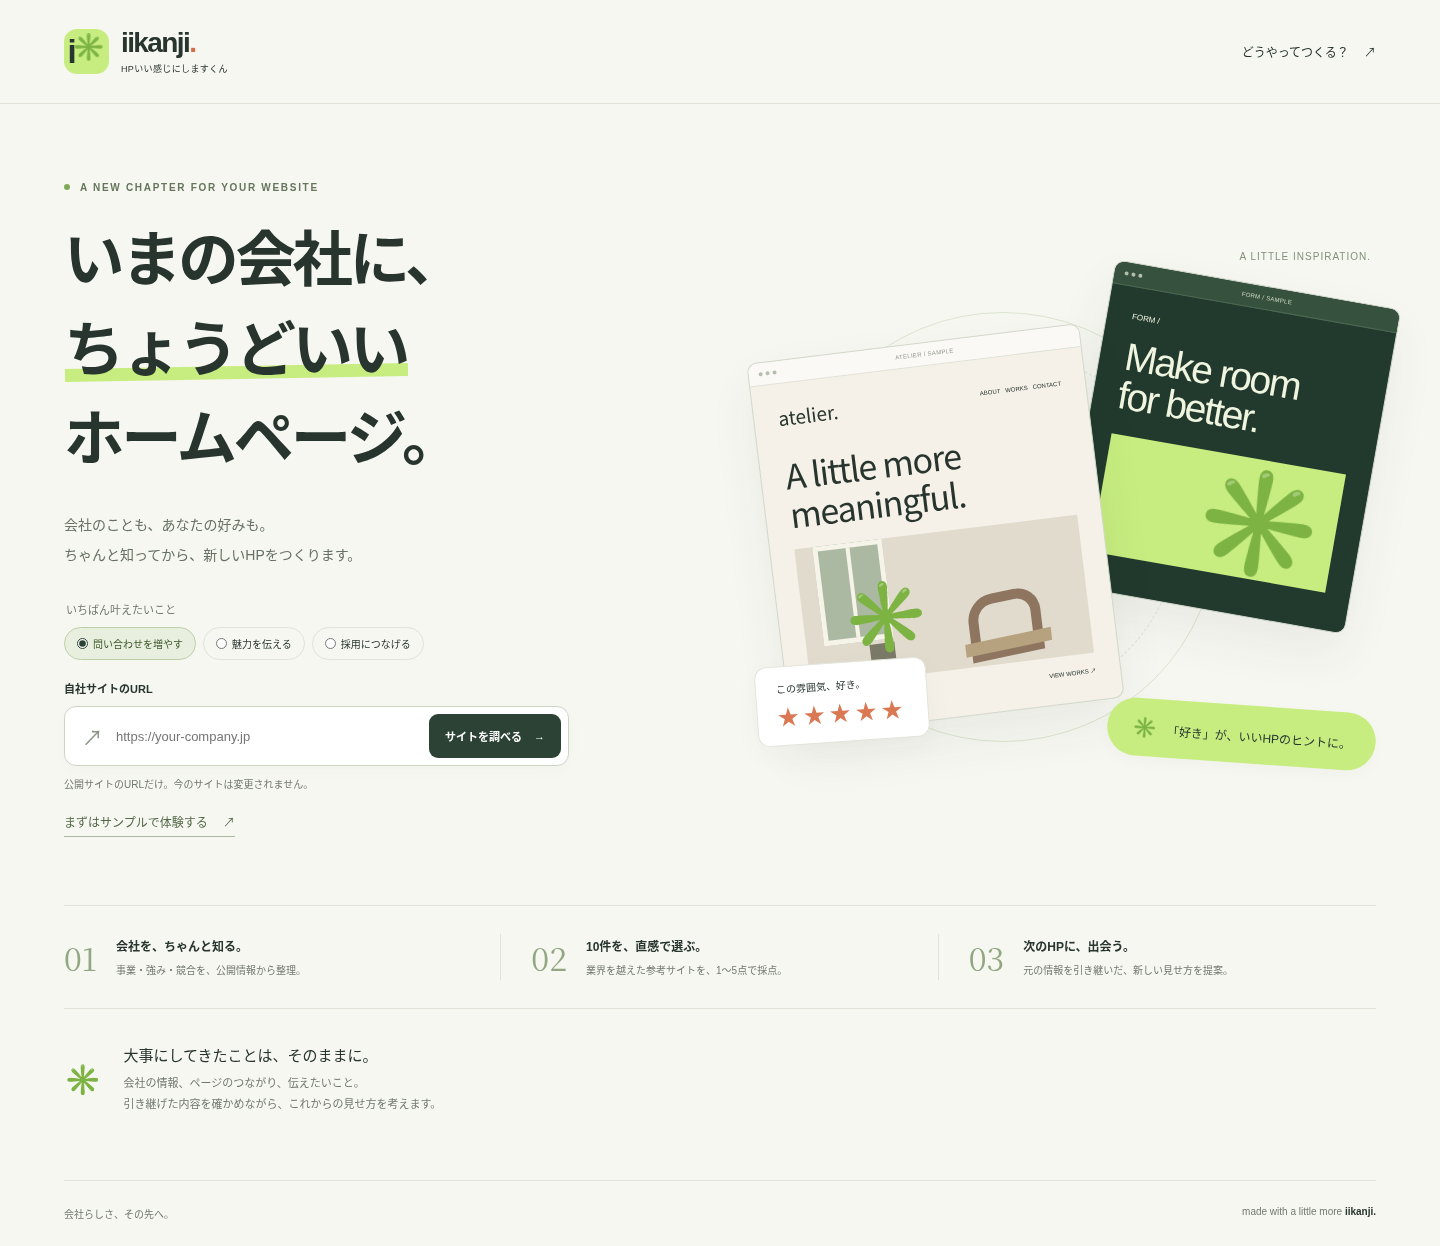
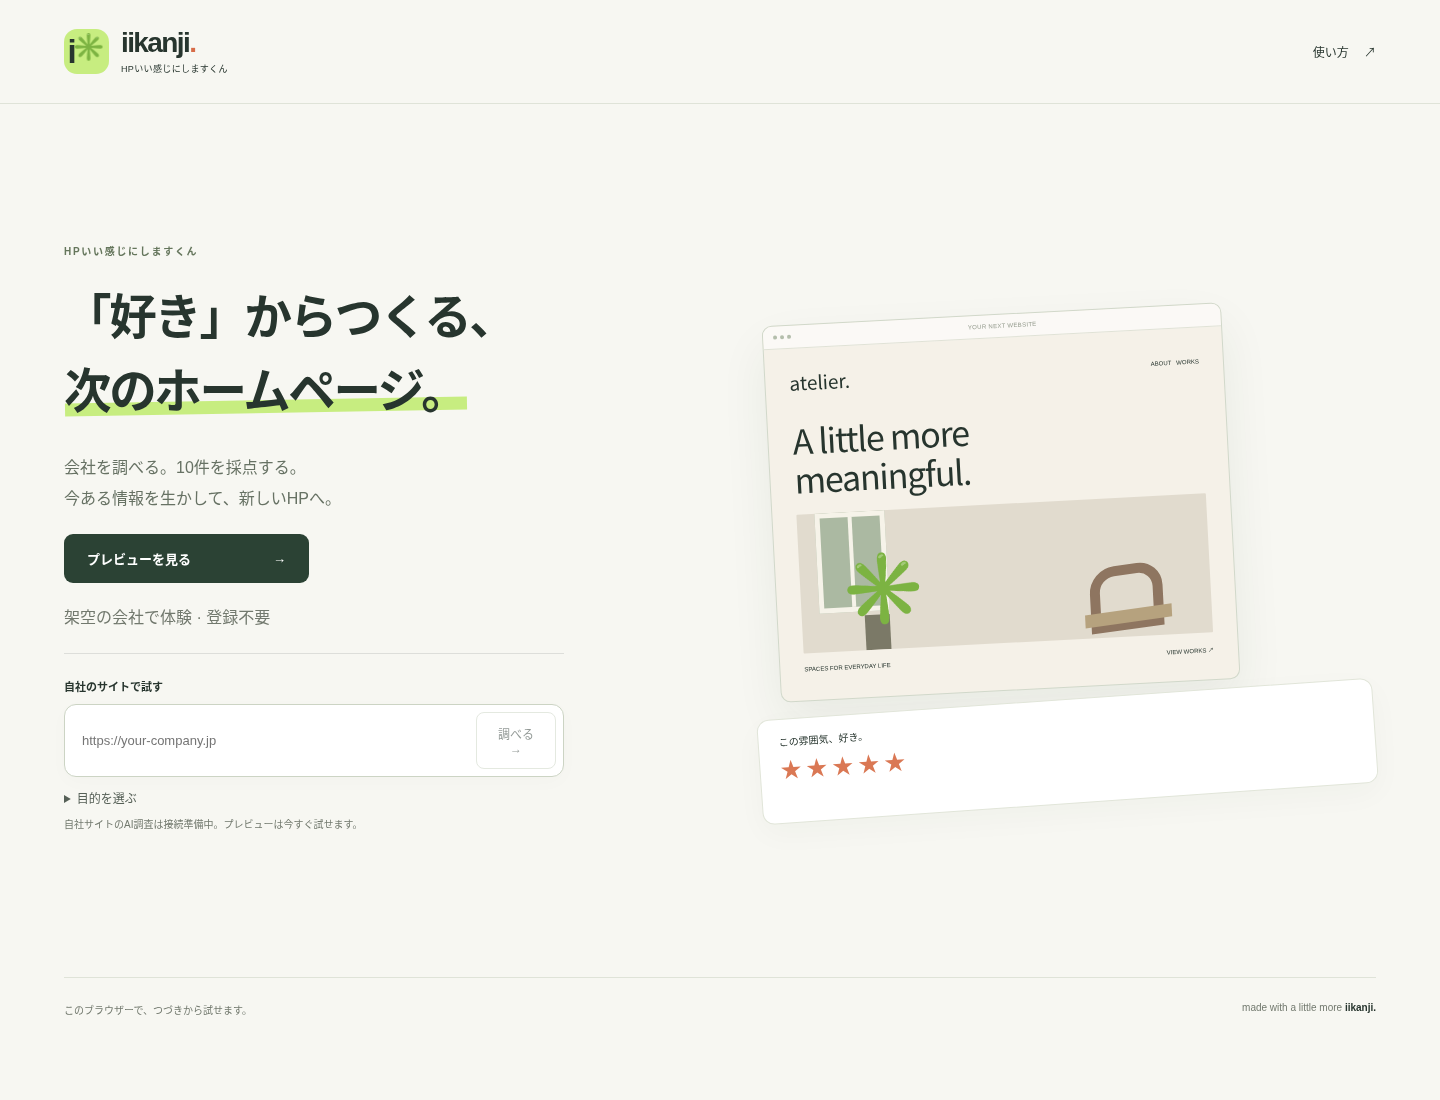
Record deployed trial URL and verified browser results

diff --git a/docs/VALIDATION.md b/docs/VALIDATION.md
@@ -37,3 +37,15 @@
 - 自動テスト13件：既存11件に加え、Workerの配信・認証・キー未設定・出典付きfixture処理・所有者違い・署名改変拒否を確認。実OpenAIリクエストは未実行。
 - PC1440px・スマホ390pxで採点、3ページの提案、内側のナビ、保持チェック、ZIP、修正再生成、再読込後再開を検査。
 - 端末間同期、永続的な課金枠、一般公開運用は対象外。公開は所有者向けテストとして扱う。
+
+### 公開結果
+
+- 2026-11-02T11:49:36Z にSitesの公開処理 `succeeded` を確認。
+- URL: https://iikanji-hp-melin55.dotdeli-biz.chatgpt.site/?preview=1
+- Site: `appgprj_6ae8766b0bc48191a9fa6462385c1f0c`
+- Version: `appgprj_6ae8766b0bc48191a9fa6462385c1f0c~appgver_ecce79fb21b881919f7b646968d08216`
+- Deployment: `appgdep_6ae878c51cb08191972c586200b2b809`
+- 公開元コミット: `9bd9b74af87e9edce1cd6dabc90f530f72be6ef9`（Sites専用ソース）。GitHubの実装コミット: `24efc26e741d2cd3191a638018be6af0b94255b4`。
+- 配布tarは `.openai/hosting.json` と `dist/server/index.js` をルート相対で含む。
+- 最終ブラウザー検査: エラー0、スマホ横幅390px/内容390px。
+- 実AI調査はキー接続待ち。所有者限定から一般公開への変更は実施していない。

diff --git a/README.md b/README.md
@@ -7,7 +7,7 @@
 - **実装・サンプル実行済み**：調査結果表示、10件採点、保存・再開、採点の反映、複数ページプレビュー、保持検査、ZIP、修正コメント、削除。
 - **実公開ページで確認済み**：公開HTMLの取得（example.com）。
 - **実装済み・実API未確認**：OpenAIによる実会社調査、競合成長の根拠確認、10件の実在サイト選定、構成提案。既存キーの利用は承認済みですが、この実行環境にはキーが接続されていません。
-- **公開用実装**：Sites向けWorkerとブラウザー用エンジンを追加。公開結果は [検証記録](docs/VALIDATION.md) に記載します。サンプルはAPIキーなしで実行できます。
+- **テスト公開済み（所有者限定）**：[プレビューを見る](https://iikanji-hp-melin55.dotdeli-biz.chatgpt.site/?preview=1)。サンプルはAPIキーなしで実行できます。実AI接続の完了とは区別します。
 
 この状態を本番完成とは扱いません。サンプルデータは架空の会社・デザインとして画面に明示しています。
 
